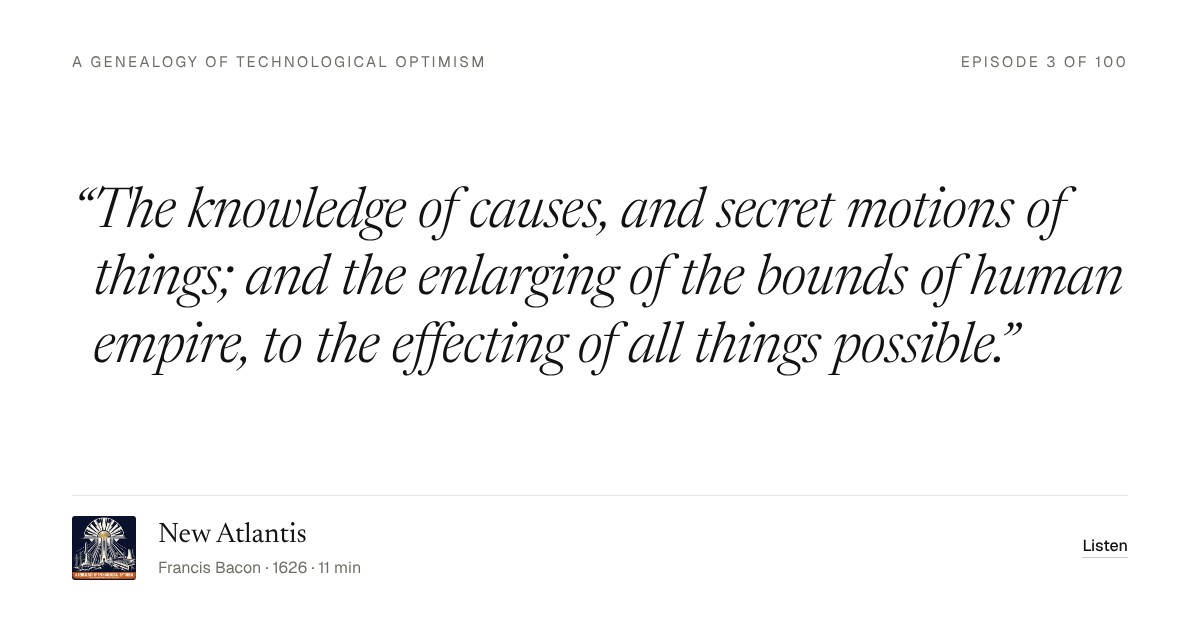
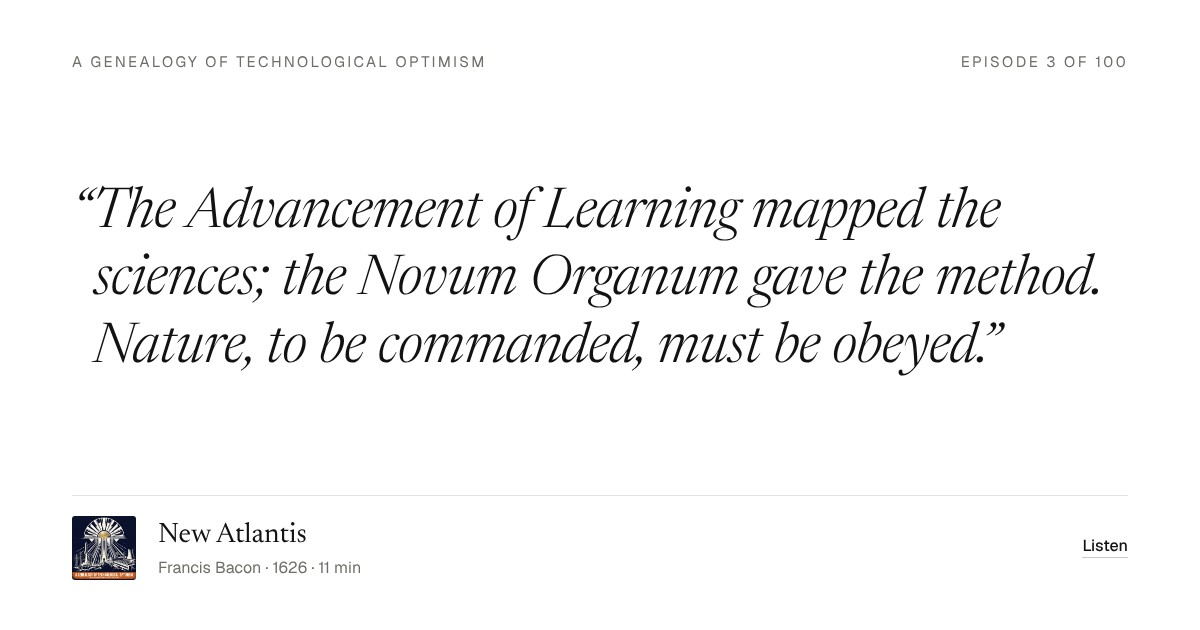
Episode 3: pull quote from the Novum Organum passage
Claude-Session: https://claude.ai/code/session_01X5oQ1dkBWmDZ4rK7JQp8i9

Changed region(s): [[0.0617, 0.3921, 0.9558, 0.4825], [0.0617, 0.5127, 0.8633, 0.6032], [0.1542, 0.3016, 0.8942, 0.3921]]

diff --git a/docs/ep/3/index.html b/docs/ep/3/index.html
@@ -13,13 +13,13 @@
 <meta property="og:title" content="3. New Atlantis">
 <meta property="og:description" content="A disgraced Lord Chancellor writes the blueprint for the perfect research institution: Salomon’s House, with its spies, its nine offices of scientific labor, and its oath of secrecy. The episode lays out Bacon’s New Atlantis in his own terms, tests the famous claim that it fathered the Royal Society, then turns on it: thirty-six men deciding in secret what mankind may know, the domination-of-nature critique, and what four centuries of hindsight did to the program.">
 <meta property="og:url" content="https://jrslotkin.github.io/genealogy-of-optimism/ep/3/">
-<meta property="og:image" content="https://jrslotkin.github.io/genealogy-of-optimism/ep/3/og.jpg?v=00ae7f5e">
+<meta property="og:image" content="https://jrslotkin.github.io/genealogy-of-optimism/ep/3/og.jpg?v=8737dcb8">
 <meta property="og:image:width" content="1200">
 <meta property="og:image:height" content="630">
 <meta name="twitter:card" content="summary_large_image">
 <meta name="twitter:title" content="3. New Atlantis">
 <meta name="twitter:description" content="A disgraced Lord Chancellor writes the blueprint for the perfect research institution: Salomon’s House, with its spies, its nine offices of scientific labor, and its oath of secrecy. The episode lays out Bacon’s New Atlantis in his own terms, tests the famous claim that it fathered the Royal Society, then turns on it: thirty-six men deciding in secret what mankind may know, the domination-of-nature critique, and what four centuries of hindsight did to the program.">
-<meta name="twitter:image" content="https://jrslotkin.github.io/genealogy-of-optimism/ep/3/og.jpg?v=00ae7f5e">
+<meta name="twitter:image" content="https://jrslotkin.github.io/genealogy-of-optimism/ep/3/og.jpg?v=8737dcb8">
 <link rel="icon" type="image/png" sizes="64x64" href="../../favicon.png">
 <link rel="apple-touch-icon" href="../../apple-touch-icon.png">
 <link rel="preload" href="../../fonts/newsreader.woff2" as="font" type="font/woff2" crossorigin>
@@ -340,7 +340,7 @@ footer a:hover{color:var(--ink)}
       <h1>New Atlantis</h1>
       <p class="meta">Francis Bacon<span class="dot">1626</span><span class="dot">10 min 48 sec</span></p>
       <p class="start-here">New to the series? <a class="start-link" href="../../ep/1/">Start with Episode 1, The Phenomenon of Man</a></p>
-      <figure class="pull"><blockquote><a class="pq" href="#" data-t="123">&ldquo;The knowledge of causes, and secret motions of things; and the enlarging of the bounds of human empire, to the effecting of all things possible.&rdquo;</a></blockquote><figcaption><a href="#" data-t="123">Hear it at 2:03</a></figcaption></figure>
+      <figure class="pull"><blockquote><a class="pq" href="#" data-t="209">&ldquo;The Advancement of Learning mapped the sciences; the Novum Organum gave the method. Nature, to be commanded, must be obeyed.&rdquo;</a></blockquote><figcaption><a href="#" data-t="209">Hear it at 3:29</a></figcaption></figure>
           <div class="player" data-src="../../audio/ep003.mp3" data-dur="648">
             <audio preload="none"></audio>
             <button class="play" type="button" aria-label="Play"><svg class="i-play" viewBox="0 0 24 24" aria-hidden="true"><path d="M8.5 5.8v12.4L18.6 12z" fill="currentColor"/></svg><svg class="i-pause" viewBox="0 0 24 24" aria-hidden="true"><path d="M7.5 5.5h3v13h-3zM13.5 5.5h3v13h-3z" fill="currentColor"/></svg></button>

diff --git a/docs/index.html b/docs/index.html
@@ -370,7 +370,7 @@ footer a:hover{color:var(--ink)}
             <h3><a class="eplink" href="ep/3/">New Atlantis</a></h3>
             <p class="meta">Francis Bacon<span class="dot">1626</span><span class="dot">10 min 48 sec</span></p>
             <p class="start-here">New to the series? <a class="start-link" href="ep/1/">Start with Episode 1, The Phenomenon of Man</a></p>
-            <figure class="pull"><blockquote><a class="pq" href="#" data-t="123">&ldquo;The knowledge of causes, and secret motions of things; and the enlarging of the bounds of human empire, to the effecting of all things possible.&rdquo;</a></blockquote><figcaption><a href="#" data-t="123">Hear it at 2:03</a></figcaption></figure>
+            <figure class="pull"><blockquote><a class="pq" href="#" data-t="209">&ldquo;The Advancement of Learning mapped the sciences; the Novum Organum gave the method. Nature, to be commanded, must be obeyed.&rdquo;</a></blockquote><figcaption><a href="#" data-t="209">Hear it at 3:29</a></figcaption></figure>
           <div class="player" data-src="audio/ep003.mp3" data-dur="648">
             <audio preload="none"></audio>
             <button class="play" type="button" aria-label="Play"><svg class="i-play" viewBox="0 0 24 24" aria-hidden="true"><path d="M8.5 5.8v12.4L18.6 12z" fill="currentColor"/></svg><svg class="i-pause" viewBox="0 0 24 24" aria-hidden="true"><path d="M7.5 5.5h3v13h-3zM13.5 5.5h3v13h-3z" fill="currentColor"/></svg></button>
